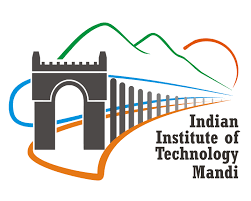
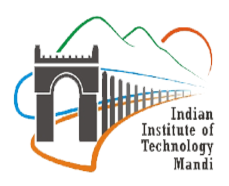
table for faculty staff added at homepage

diff --git a/templates/index.html b/templates/index.html
@@ -9,7 +9,7 @@
 
     <body>
         <div id="mySidenav" class="sidenav">
-            <a id="logo" href="insite.iitmandi.ac.in"><img src="../public/img/iitmandilogo.png" height="150" width="230" style="margin-left: -15px;" /></a>
+            <a id="logo" href="insite.iitmandi.ac.in"><img src="../public/img/images.png" height="150" width="230" style="margin-left: -15px;" /></a>
             <div class="Dropdown">
                 <button class="dropbtn">B.Tech Batch</button>
                 <div class="Dropdown-content">
@@ -32,6 +32,12 @@
                 <div class="Dropdown-content">
                     <a href="phd.php">Ph.D</a>
                     <a href="iphd.php">Int Ph.D</a>
+                </div>
+            </div>
+            <div class="Dropdown">
+                <button class="dropbtn">Faculty and Staff</button>
+                <div class="Dropdown-content">
+                    
                 </div>
             </div>
         </div>
@@ -58,6 +64,36 @@
                     <th>Room No.</th>
                     <th>Personal Contact</th>
                     <th>Emergency Contact</th>
+                </tr>
+            </table>
+            <table>
+                <tr>
+                    <th>Name</th>
+                    <th>Designation</th>
+                    <th colspan="3" style="text-align: center;">Contact</th>
+                    <th>Email</th>
+                    <th>Office</th>
+                    <th>Residence</th>
+                </tr>
+                <tr style="background-color: #111;">
+                    <td></td>
+                    <td></td>
+                    <td style="color: white;">Office</td>
+                    <td style="color: white;">Home</td>
+                    <td style="color: white;">Other/Fax</td>
+                    <td></td>
+                    <td></td>
+                    <td></td>
+                </tr>
+                <tr>
+                    <td>TAG</td>
+                    <td>Director</td>
+                    <td>??????</td>
+                    <td>??????</td>
+                    <td>??????</td>
+                    <td>director</td>
+                    <td>Directorate Office-105</td>
+                    <td>C-36(S-1) NC</td>
                 </tr>
             </table>
         </div>

diff --git a/public/css/myStyle.css b/public/css/myStyle.css
@@ -176,6 +176,10 @@
         input[type=text]:focus {
             margin-left: 20%;
             width: 60%;
+            background-image: url('../img/searchicon1.png');
+            background-size: 10% 50%;
+            background-position: 5% 50%;
+            background-repeat: no-repeat;
         }
         
         table {
@@ -187,7 +191,7 @@
         
         th,
         td {
-            text-align: center;
+            text-align: left;
             padding: 20px 0;
         }
         
